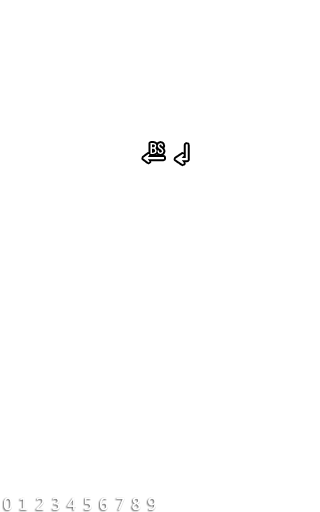
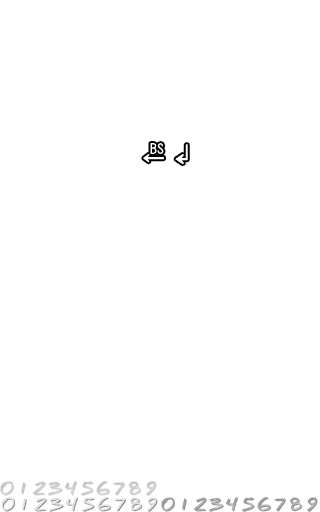
Redesign the 1280x960 version of the Arabic numerals in ascii.png.

Changed region(s): [[0.0, 0.9375, 1.0, 1.0]]

diff --git a/script_latin/files.js b/script_latin/files.js
@@ -45,11 +45,11 @@
 	"th14.js": null,
 	"th14.v1.00b.js": 4169838172,
 	"th14/ascii/ascii.png": 2859450001,
-	"th14/ascii/ascii_1280.png": 2824292019,
+	"th14/ascii/ascii_1280.png": 3440573990,
 	"th14/ascii/ascii_960.png": 327865313,
 	"th143.v1.00a.js": 2817346032,
 	"th143/ascii/ascii.png": 2859450001,
-	"th143/ascii/ascii_1280.png": 2824292019,
+	"th143/ascii/ascii_1280.png": 3440573990,
 	"th143/ascii/ascii_960.png": 327865313,
 	"th145/data/event/balloon/a05x2.png": 80076677,
 	"th145/data/event/balloon/a11x2.png": 2392809766,
@@ -70,6 +70,6 @@
 	"th145/data/event/balloon/hukidasi-s.png": 1758270533,
 	"th145/data/system/talk/balloon.act": 2044460839,
 	"th15/ascii/ascii.png": 2859450001,
-	"th15/ascii/ascii_1280.png": 2824292019,
+	"th15/ascii/ascii_1280.png": 3440573990,
 	"th15/ascii/ascii_960.png": 327865313
 }
